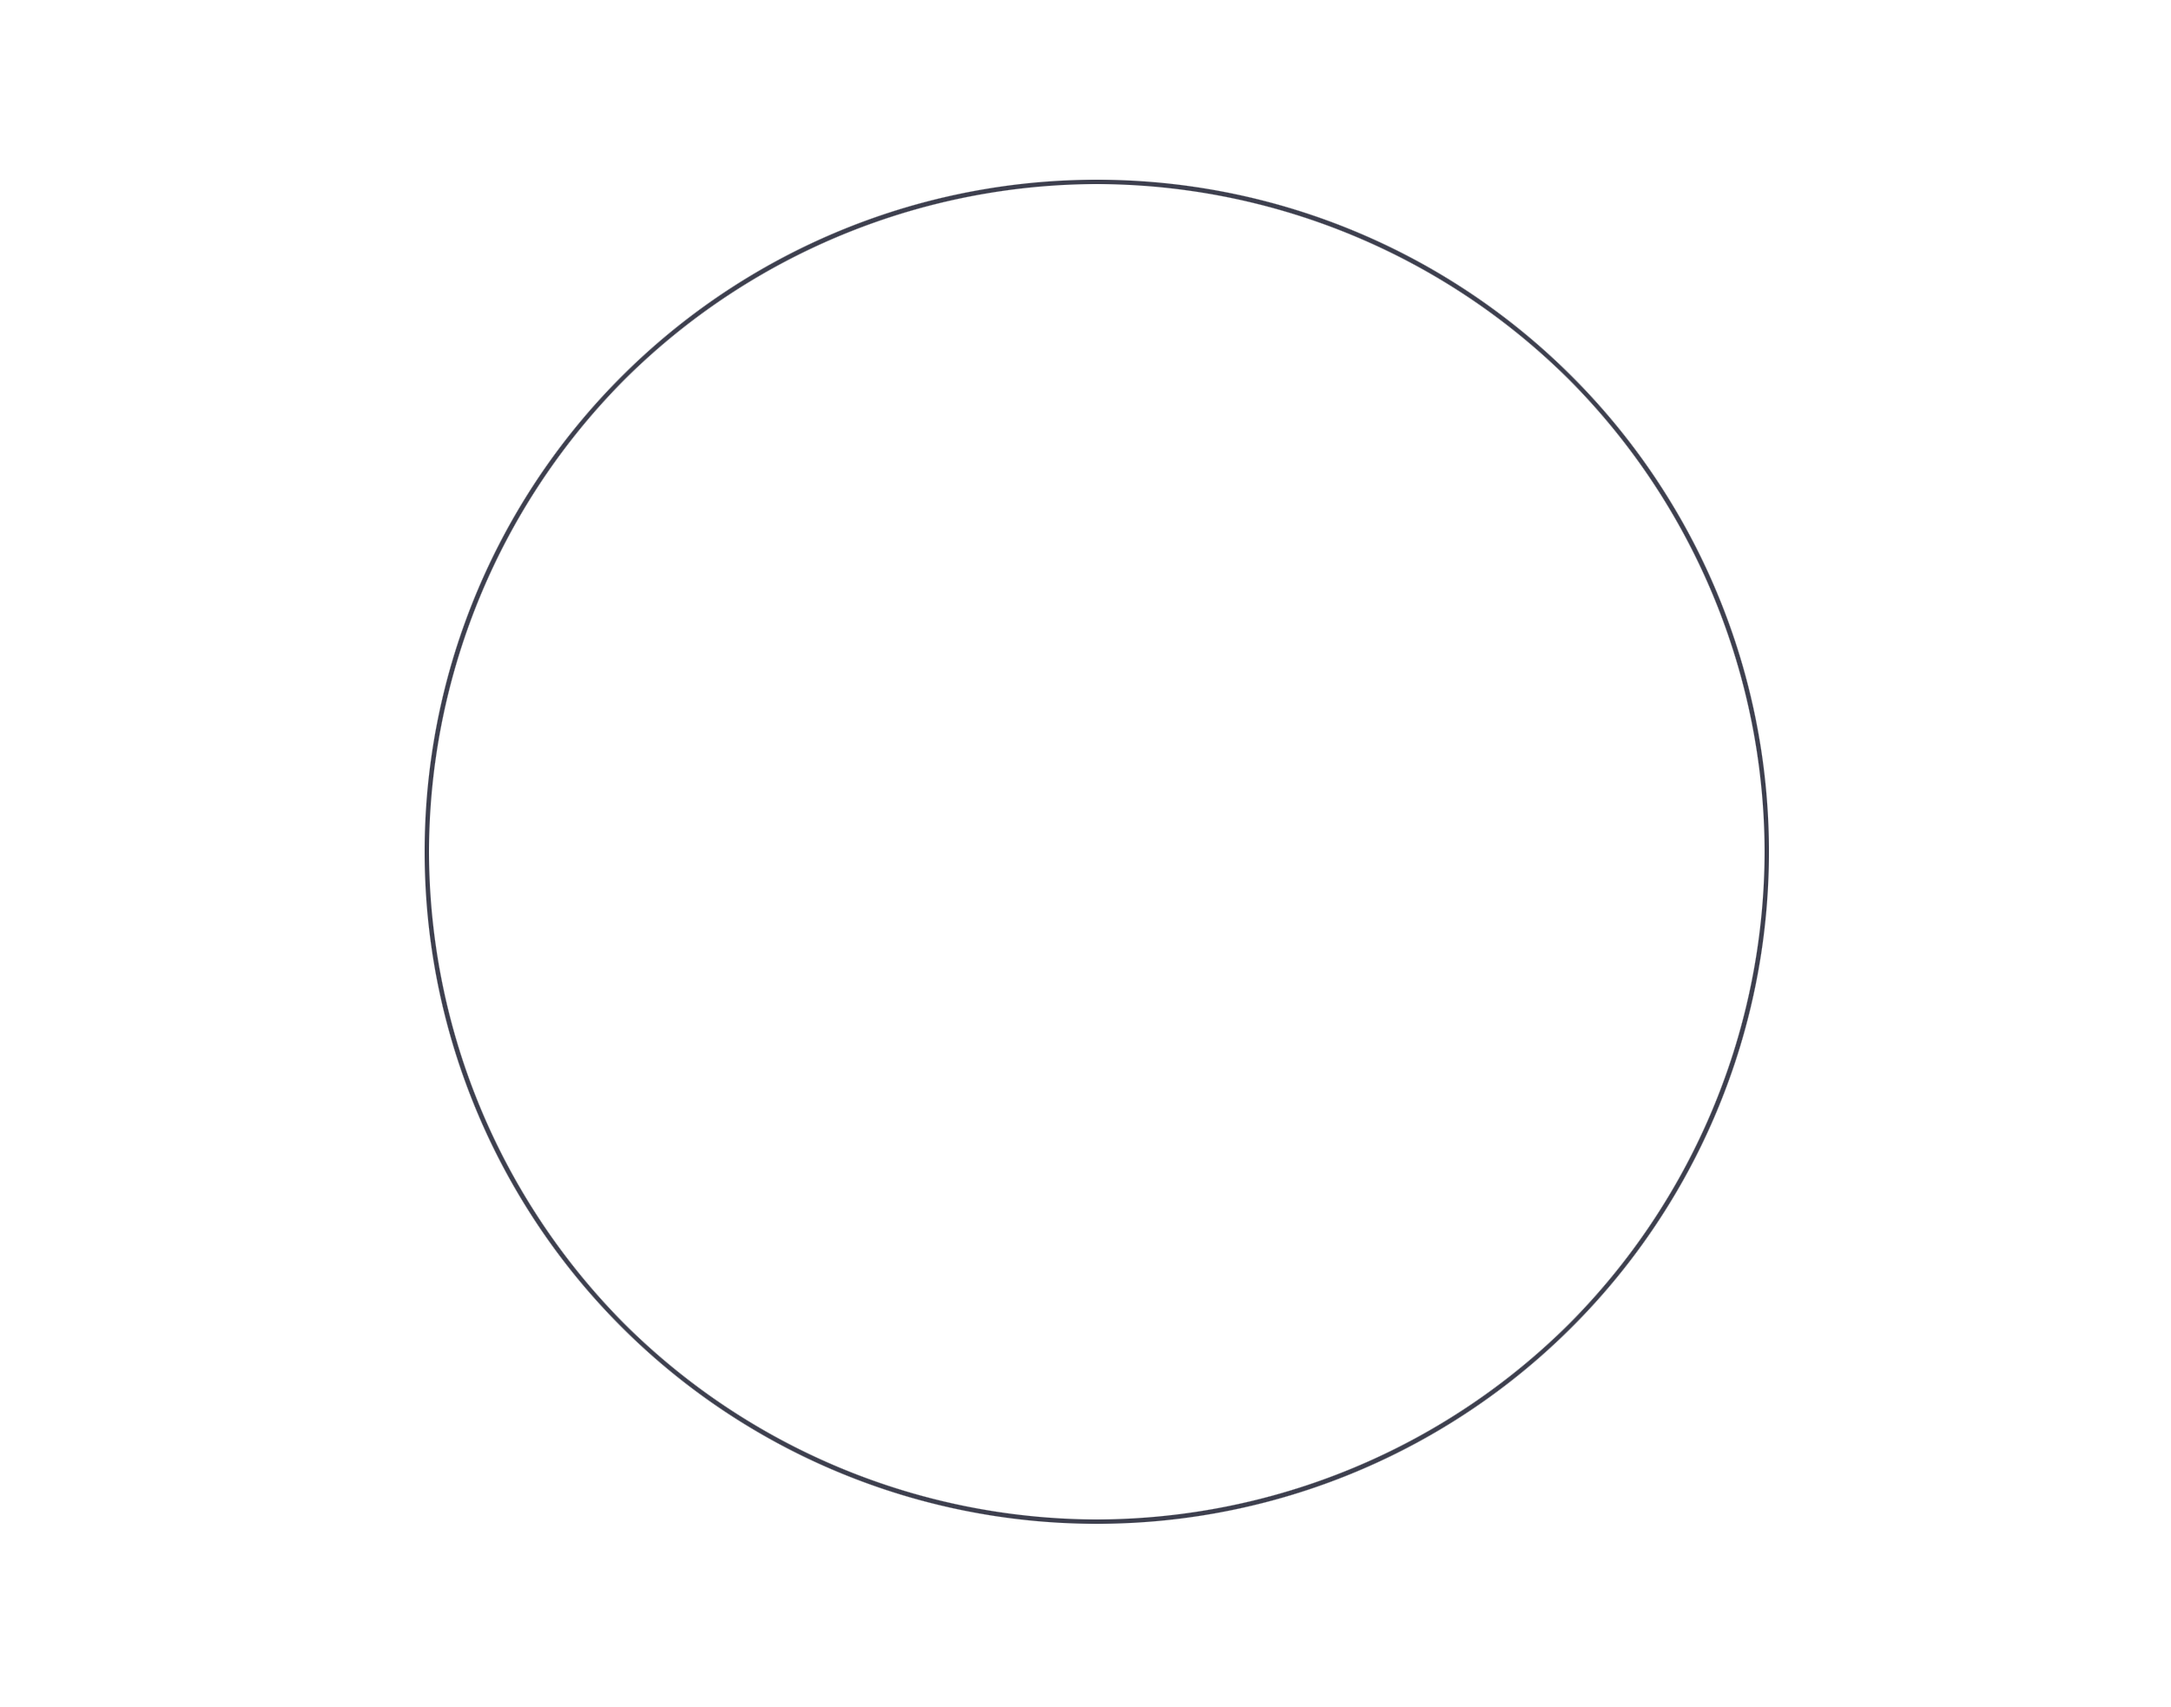
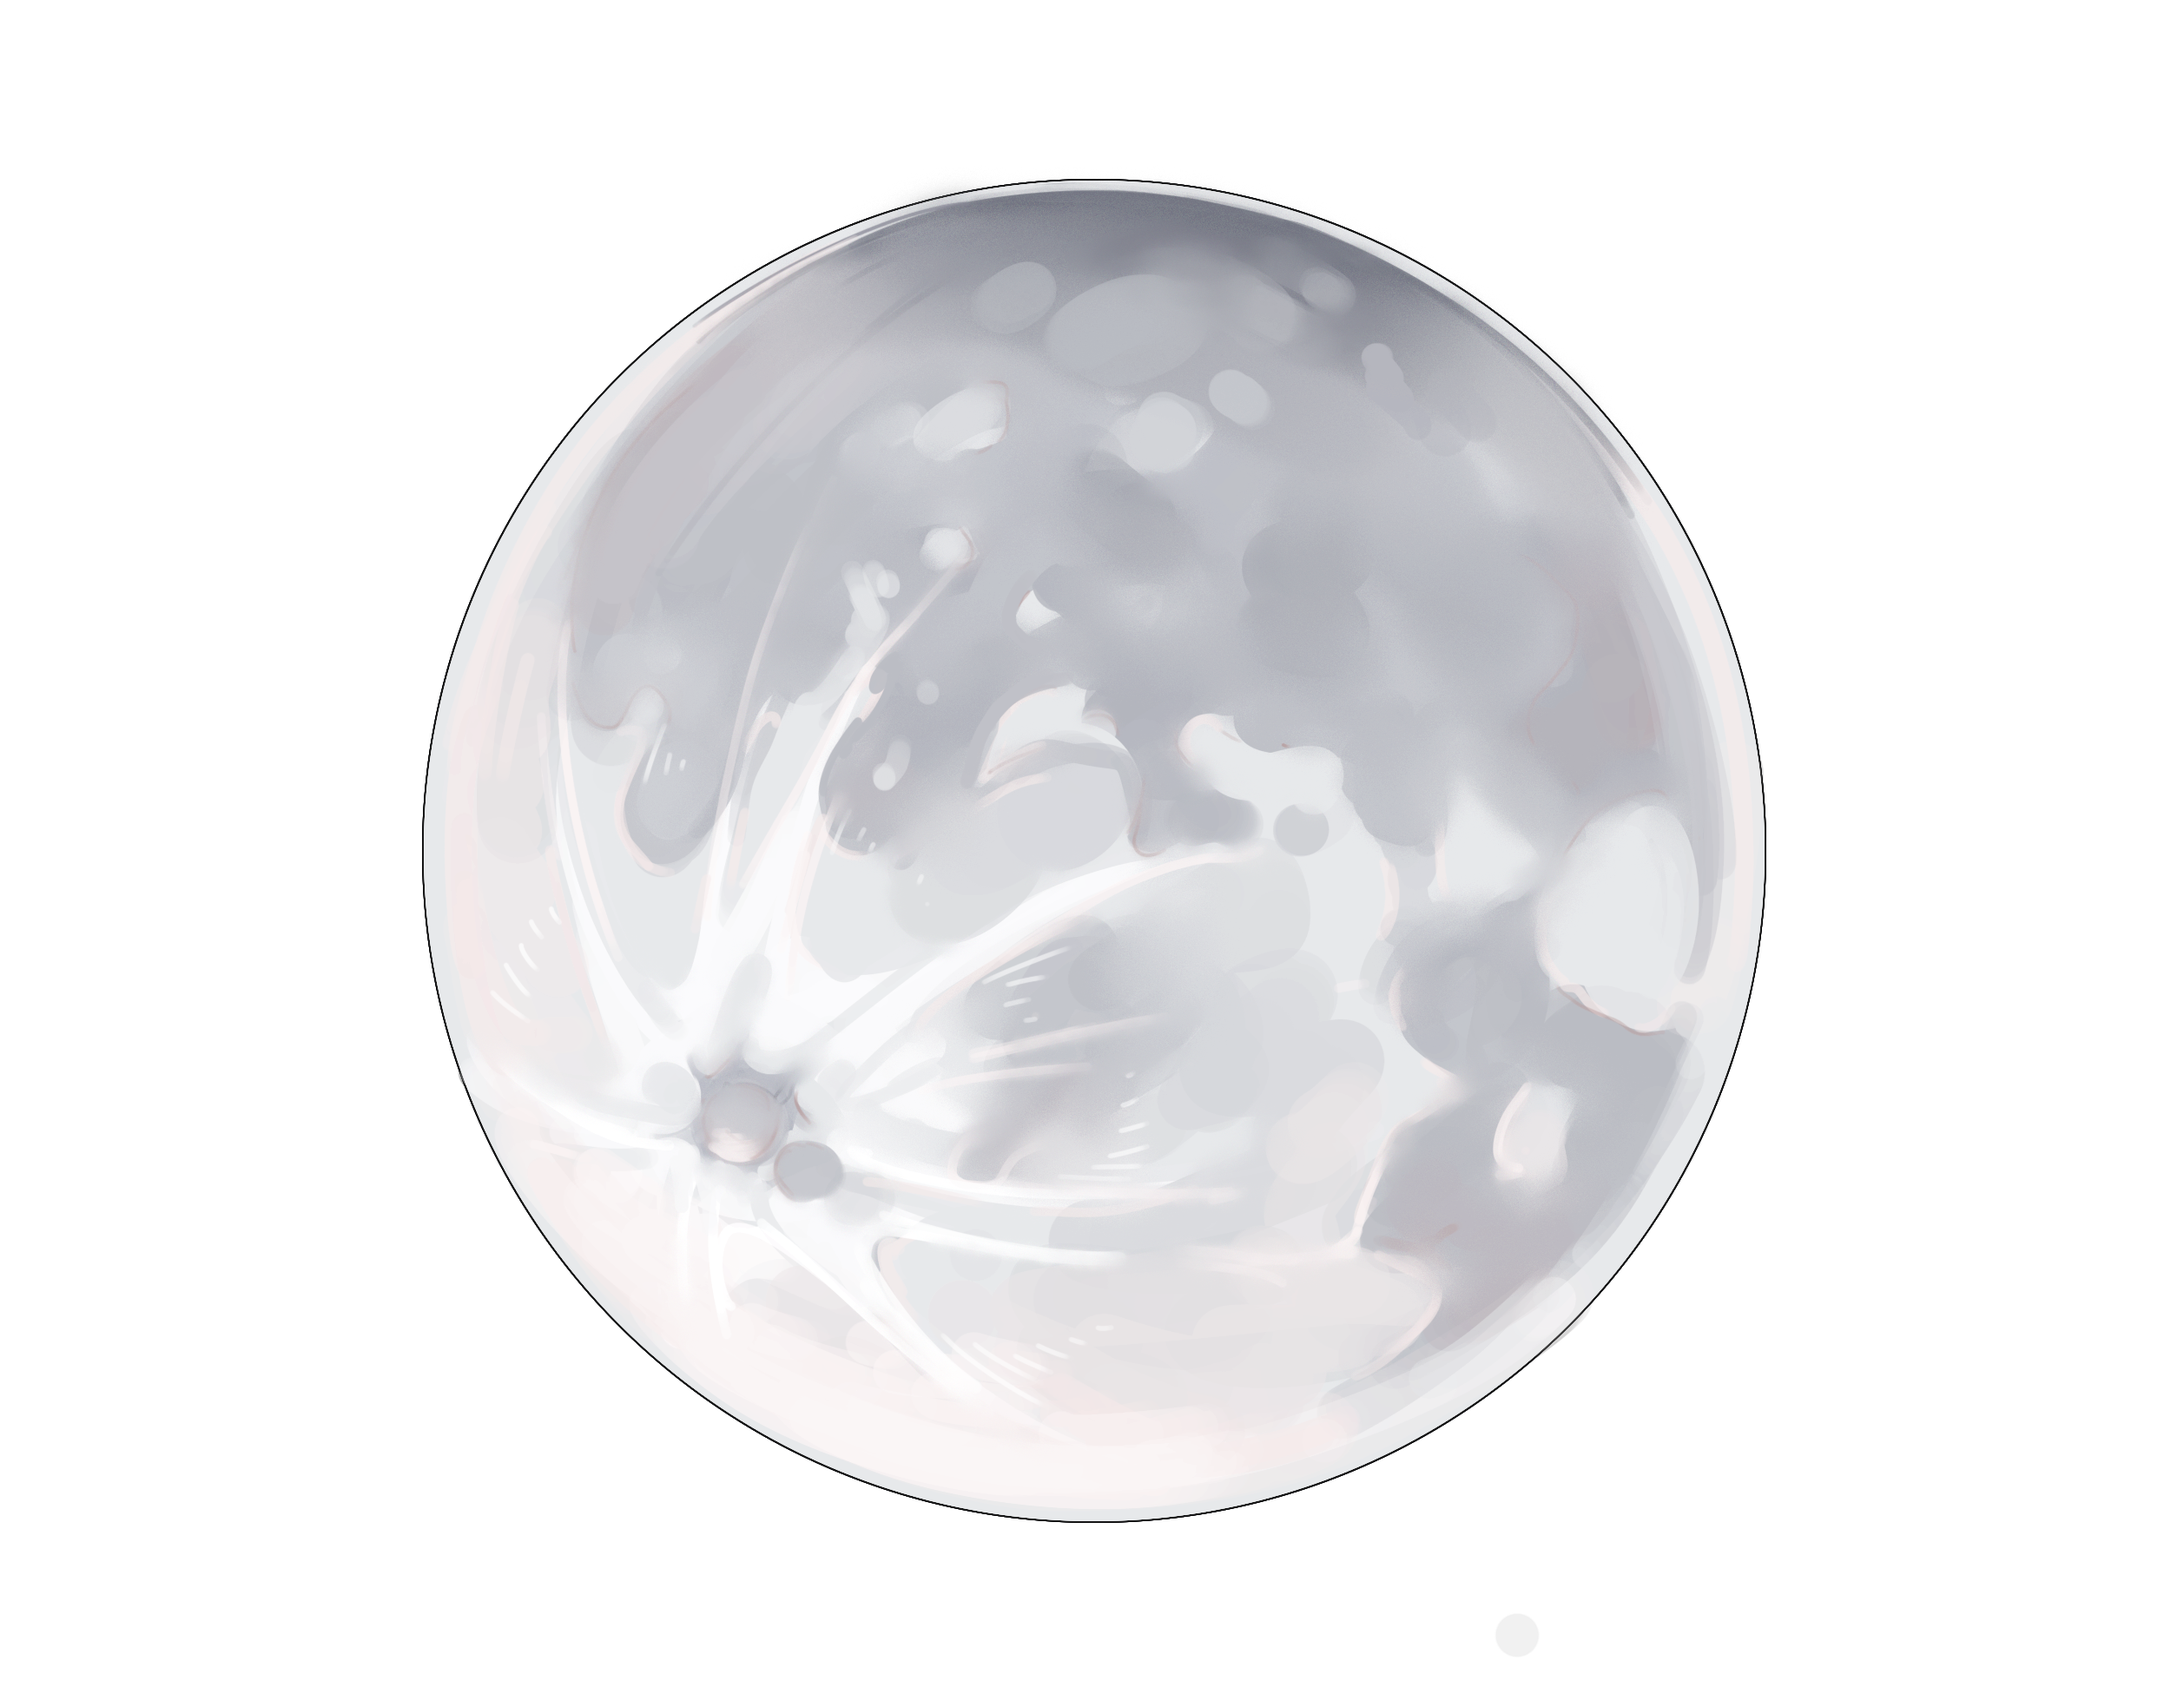
some image updates

diff --git a/style.css b/style.css
@@ -1,9 +1,9 @@
 /*remove existing styling*/
+/*makes jumping between ids less jarring*/
 * {
   margin: 0;
   padding: 0;
   scroll-behavior: smooth;
-  /*makes jumping between ids less jarring*/
 }
 
 /*navigation bar styling */
@@ -48,14 +48,18 @@ a:hover {
 
 /*makes icon overlap a bit*/
 .icon {
-  display: inline-block;
-  margin: -40% -10;
+  margin: -35px 10;
   height: 60px;
 }
 
-/* makes bigger on hover */
+#moonicon {
+  display: inline-block;
+}
+
+/* makes bigger on hover, janky way of keeping nav links from moving*/
 .icon:hover {
-  height: 70px;
+  height: 65px;
+  margin: -35px 8;
   transition: all 150ms ease-in;
 }
 
@@ -94,14 +98,18 @@ a:hover {
 div.landing {
   grid-area: 1 / 1 / 2 / 4;
   background:
-    url("images/moon_demo.png") right 43vw bottom 20vh no-repeat,
+    url("images/jupiter.png") right 43vw bottom 20vh no-repeat,
     url("images/moon_demo.png") left 43vw bottom 15vh no-repeat,
     url("images/moon_demo.png") center bottom 8vh no-repeat,
-    url("images/demo_background.png") center 11vh no-repeat,
-    url("images/moon_demo.png") center -30vh no-repeat,
-    url("images/cloud_demo.png") right -40vh top 30vh no-repeat,
-    url("images/cloud_demo2.png") left -40vh top 30vh no-repeat;
-  background-size: 12vh, 8vh, 10vh, 170vh, 80vh, 150vh, 150vh;
+    url("images/demo_background.png") center 18vh no-repeat,
+    url("images/moon.png") center -10vh no-repeat,
+    url("images/moon_glow.png") center -15vh no-repeat,
+    /* url("images/cloud_demo.png") right -40vh top 30vh no-repeat,
+    url("images/cloud_demo2.png") left -40vh top 30vh no-repeat, */
+    url("images/clouds_bg.png") center top -50vh no-repeat;
+  background-size: 12vh, 8vh, 10vh, 150vh, 40vh, 55vh,
+  /* 150vh, 150vh,  */
+  200vh;
 }
 
 /*title styling*/

diff --git a/index.html b/index.html
@@ -30,7 +30,7 @@
   <!-- This is the navigation bar. Rather than other pages, I went with a continuous scrolling design nagigable with divs -->
   <nav id="navbar">
     <ul>
-      <li><a href="#landing"><img class="icon" alt="Home" src="images/moon_demo.png"></a></li>
+      <li><a href="#landing"><img class="icon" alt="Home" src="images/moon_icon.png"></a></li>
       <li><a href="#gallery">art</a></li>
       <li><a href="#about">about</a></li>
       <li><a href="#contact">contact</a></li>
